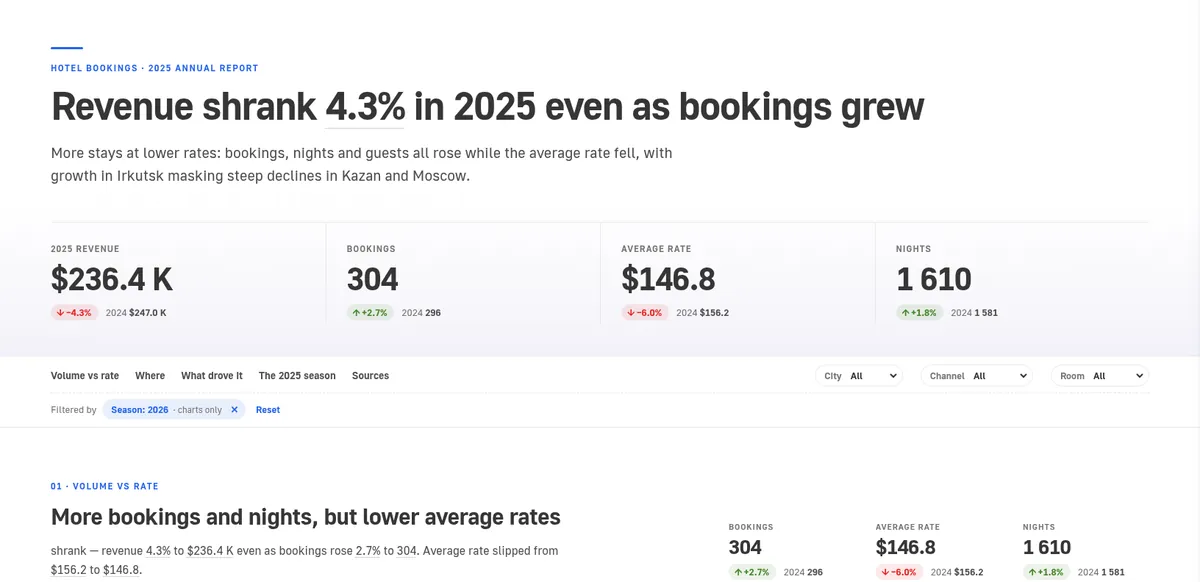
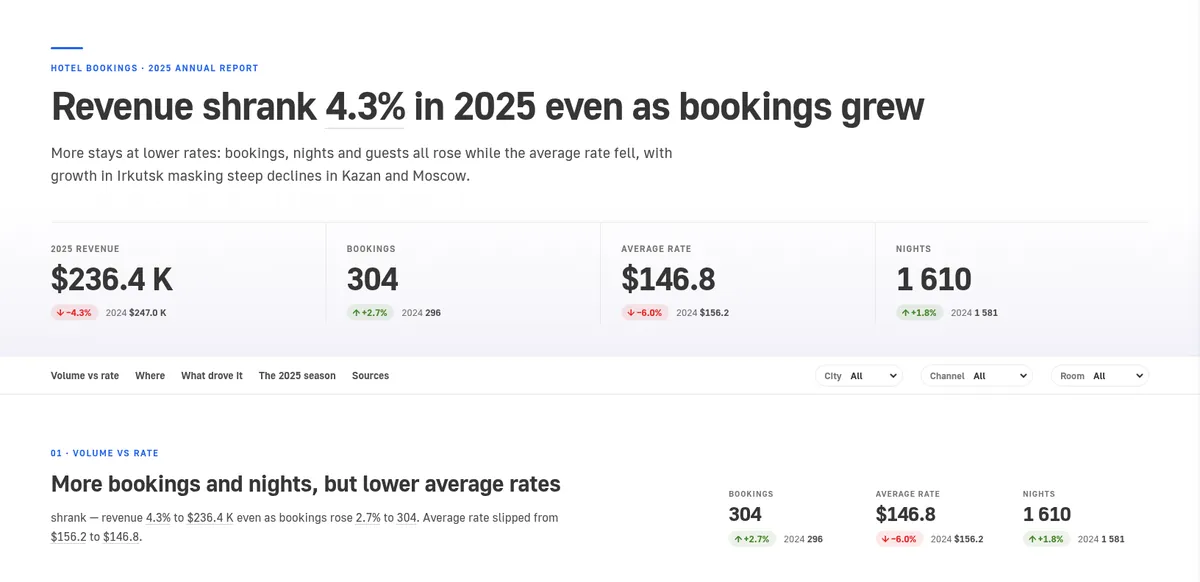
Showcase: real briefs, sample hotel data named, clean report shots
Each "The ask" line is now the real brief, condensed to one sentence in
the user's words. The report examples say they run on a sample hotel
dataset, and no page claims that every example uses public data. The
globe's 10,718 quakes are marked as every magnitude, apart from the raw
feed's M2.5+.

The report screenshots are re-shot without the filter chip that leaked
in from another dashboard, cropped as before.

diff --git a/lib/showcase.ts b/lib/showcase.ts
@@ -1,4 +1,6 @@
-// What the agent built in MPP BI on public data: the home gallery and /showcase.
+// What the agent built in MPP BI: the home gallery and /showcase. The Edge lab projects
+// use public data; the report uses our sample hotel dataset (600 bookings, 2024–2025).
+// Each ask is the real brief, condensed to one sentence.
 // Every number here was measured on the build; before → after is the agent's
 // performance round (it renders the page, reads requests, rows, main-thread time
 // and memory, and fixes what they show).
@@ -36,7 +38,7 @@ export const examples: Example[] = [
     title: 'Galaxy of worlds',
     kicker: 'NASA Exoplanet Archive',
     caption: '6,366 exoplanets as a galaxy you can fly into.',
-    asked: 'Show every confirmed exoplanet in a way that invites exploring.',
+    asked: 'Make a sunburst of every known exoplanet shaped like a spiral galaxy, with a stats page and a scroll-driven story of how they were found.',
     did: [
       'Drew a sunburst shaped like a galaxy: discovery method at the core, then the facility, then its systems.',
       'Made each facility something you fly into, to see every system and planet it found.',
@@ -58,7 +60,7 @@ export const examples: Example[] = [
     title: 'Shaking Earth',
     kicker: 'USGS Earthquake Hazards Program',
     caption: '10,718 earthquakes in 30 days on a 3D globe.',
-    asked: 'Show the last 30 days of earthquakes around the world.',
+    asked: 'Put every earthquake of the last 30 days on a 3D globe, sized by magnitude and colored by depth, with a stats page next to it.',
     did: [
       'Drew a 3D globe in the browser with every quake as a glowing beam: height is magnitude, color is depth.',
       'Added a daily timeline you can replay.',
@@ -66,7 +68,7 @@ export const examples: Example[] = [
       'Wrote a stats page whose sentences are computed from the data, such as “one every 4.0 minutes”.',
     ],
     numbers: [
-      { value: '10,718', label: 'earthquakes' },
+      { value: '10,718', label: 'earthquakes of every magnitude' },
       { value: '3.5 MB → 0.8 MB', label: 'loaded, before and after the performance round' },
       { value: '2.3 s → 0.17 s', label: 'the page blocked the browser while loading' },
     ],
@@ -81,7 +83,7 @@ export const examples: Example[] = [
     title: 'Climate pulse',
     kicker: 'Our World in Data',
     caption: 'CO₂ since 1950, with a live carbon clock.',
-    asked: 'Tell the story of the world’s CO₂ emissions from 1950 to 2024.',
+    asked: 'Make a full-screen stats wall of a few huge numbers about global CO₂ over an animated background, every number from the data, and a page on who emits it.',
     did: [
       'Built a dark stats wall with an animated aurora and numbers that count up: 38.6 Gt in 2024, 4.73 t per person, +69.8% since 1990.',
       'Added a carbon clock that counts the CO₂ emitted since you opened the page.',
@@ -111,7 +113,7 @@ export const examples: Example[] = [
     title: 'Market track',
     kicker: 'NASDAQ screener snapshot, Sep 24, 2026',
     caption: '3,500 listed companies on one circular track.',
-    asked: 'Show the whole market on one screen.',
+    asked: 'Show the whole NASDAQ as a circular track, with each sector’s arc a treemap of its companies sized by market cap and colored by today’s change.',
     did: [
       'Laid the market out as a circular track: each sector is an arc, and each arc is a treemap of its companies.',
       'Sized companies by market cap and colored them by the day’s change.',
@@ -132,7 +134,7 @@ export const examples: Example[] = [
     title: 'The oval',
     kicker: 'nascaR.data, Cup Series results 1949–2026',
     caption: 'Every Cup Series season since 1949 on a speedway.',
-    asked: 'Show the history of the Cup Series in a form a race fan would recognize.',
+    asked: 'Draw a NASCAR oval whose track surface is itself a treemap of the current season’s field, with a season picker to replay history.',
     did: [
       'Made the racing surface a treemap of the season’s field: manufacturer, team, driver, with area by points.',
       'Put the standings in the infield and one pit stall per race on pit road, in the winner’s colors.',
@@ -162,9 +164,9 @@ export const examples: Example[] = [
   {
     slug: 'raw',
     title: 'From a raw feed to a dashboard',
-    kicker: 'USGS GeoJSON feed · DeepSeek V4 Flash',
+    kicker: 'USGS feed of M2.5+ earthquakes · DeepSeek V4 Flash',
     caption: 'A small model took a raw feed to a dashboard.',
-    asked: 'Turn the raw USGS earthquake feed into a dashboard.',
+    asked: 'Download the raw USGS feed of M2.5+ earthquakes from the last 30 days, clean it with a script, import it and build a dashboard from it.',
     did: [
       'Downloaded the raw GeoJSON feed.',
       'Wrote a script in its sandbox to clean it, then imported the result.',
@@ -185,10 +187,10 @@ export const examples: Example[] = [
     slug: 'report',
     title: 'Report from a sentence',
     heading: 'Every number traceable',
-    kicker: 'Report from a sentence',
-    caption: 'An annual report filled in 10.7 minutes, no code written.',
+    kicker: 'Sample hotel dataset, 600 bookings 2024–2025',
+    caption: 'An annual report on a sample hotel dataset.',
     focus: '14% 0%',
-    asked: 'Write the annual report for a hotel portfolio.',
+    asked: 'Build a 2025 annual report page on the hotel data without writing any code, with every number a declared query.',
     did: [
       'Filled the report kit, a reviewed report page, by configuration only. Neither model wrote code.',
       'Declared every number as a query: hover a number to see the query behind it.',

diff --git a/app/showcase/page.tsx b/app/showcase/page.tsx
@@ -9,7 +9,7 @@ import { examples, speedups, type Example } from '@/lib/showcase'
 export const metadata: Metadata = {
   title: 'What the engine builds | MPP BI',
   description:
-    'Exoplanets, earthquakes, CO₂, a stock market and 78 seasons of racing: what an AI agent built inside MPP BI on public data, with the measured numbers.',
+    'Exoplanets, earthquakes, CO₂, a stock market, 78 seasons of racing and an annual report: what an AI agent built inside MPP BI, with the measured numbers.',
 }
 
 const credits = [
@@ -83,7 +83,7 @@ export default function ShowcasePage() {
       <main>
         <PageHeader
           title="What the engine builds"
-          lede="An AI agent built each of these inside an MPP BI installation, on public data, with MPP BI’s own agent tools. It imported the data, modeled it and drew the visuals, then measured each page and moved the heavy work into the database. The agent was Claude Opus, working through MPP BI’s MCP server, except where DeepSeek V4 Flash is named."
+          lede="An AI agent built each of these inside an MPP BI installation with MPP BI’s own agent tools. Six use public data: the agent imported it, modeled it and drew the visuals, and for the first five it then measured each page and moved the heavy work into the database. The report uses a sample hotel dataset. The agent was Claude Opus, working through MPP BI’s MCP server, except where DeepSeek V4 Flash is named."
         >
           <DemoButton label="Try it on your data" />
           <TextLink href="#fast">How it stays fast</TextLink>

diff --git a/app/page.tsx b/app/page.tsx
@@ -38,7 +38,7 @@ const proof = [
   },
   {
     value: '5.8 minutes',
-    body: 'The time a small model, DeepSeek V4 Flash, took to fill a full report from the product’s chat, without writing code.',
+    body: 'The time a small model, DeepSeek V4 Flash, took to fill a full report on a sample hotel dataset from the product’s chat, without writing code.',
   },
 ]
 
@@ -138,7 +138,7 @@ export default function HomePage() {
           <Chapter
             n="02 Analyze with ease"
             title="The engine that runs your analytics now builds them"
-            lede="Say what you want to see. The agent imports the data, models it, draws visuals no chart menu has, and moves the heavy math into the database so pages stay fast. An agent built each of these in MPP BI, on public data."
+            lede="Say what you want to see. The agent imports the data, models it, draws visuals no chart menu has, and moves the heavy math into the database so pages stay fast. An agent built each of these in MPP BI: five on public data, the report on a sample hotel dataset."
           />
           <ul className="grid grid-cols-2 gap-x-4 gap-y-8 md:gap-x-6 lg:grid-cols-3">
             {gallery.map((e) => (
